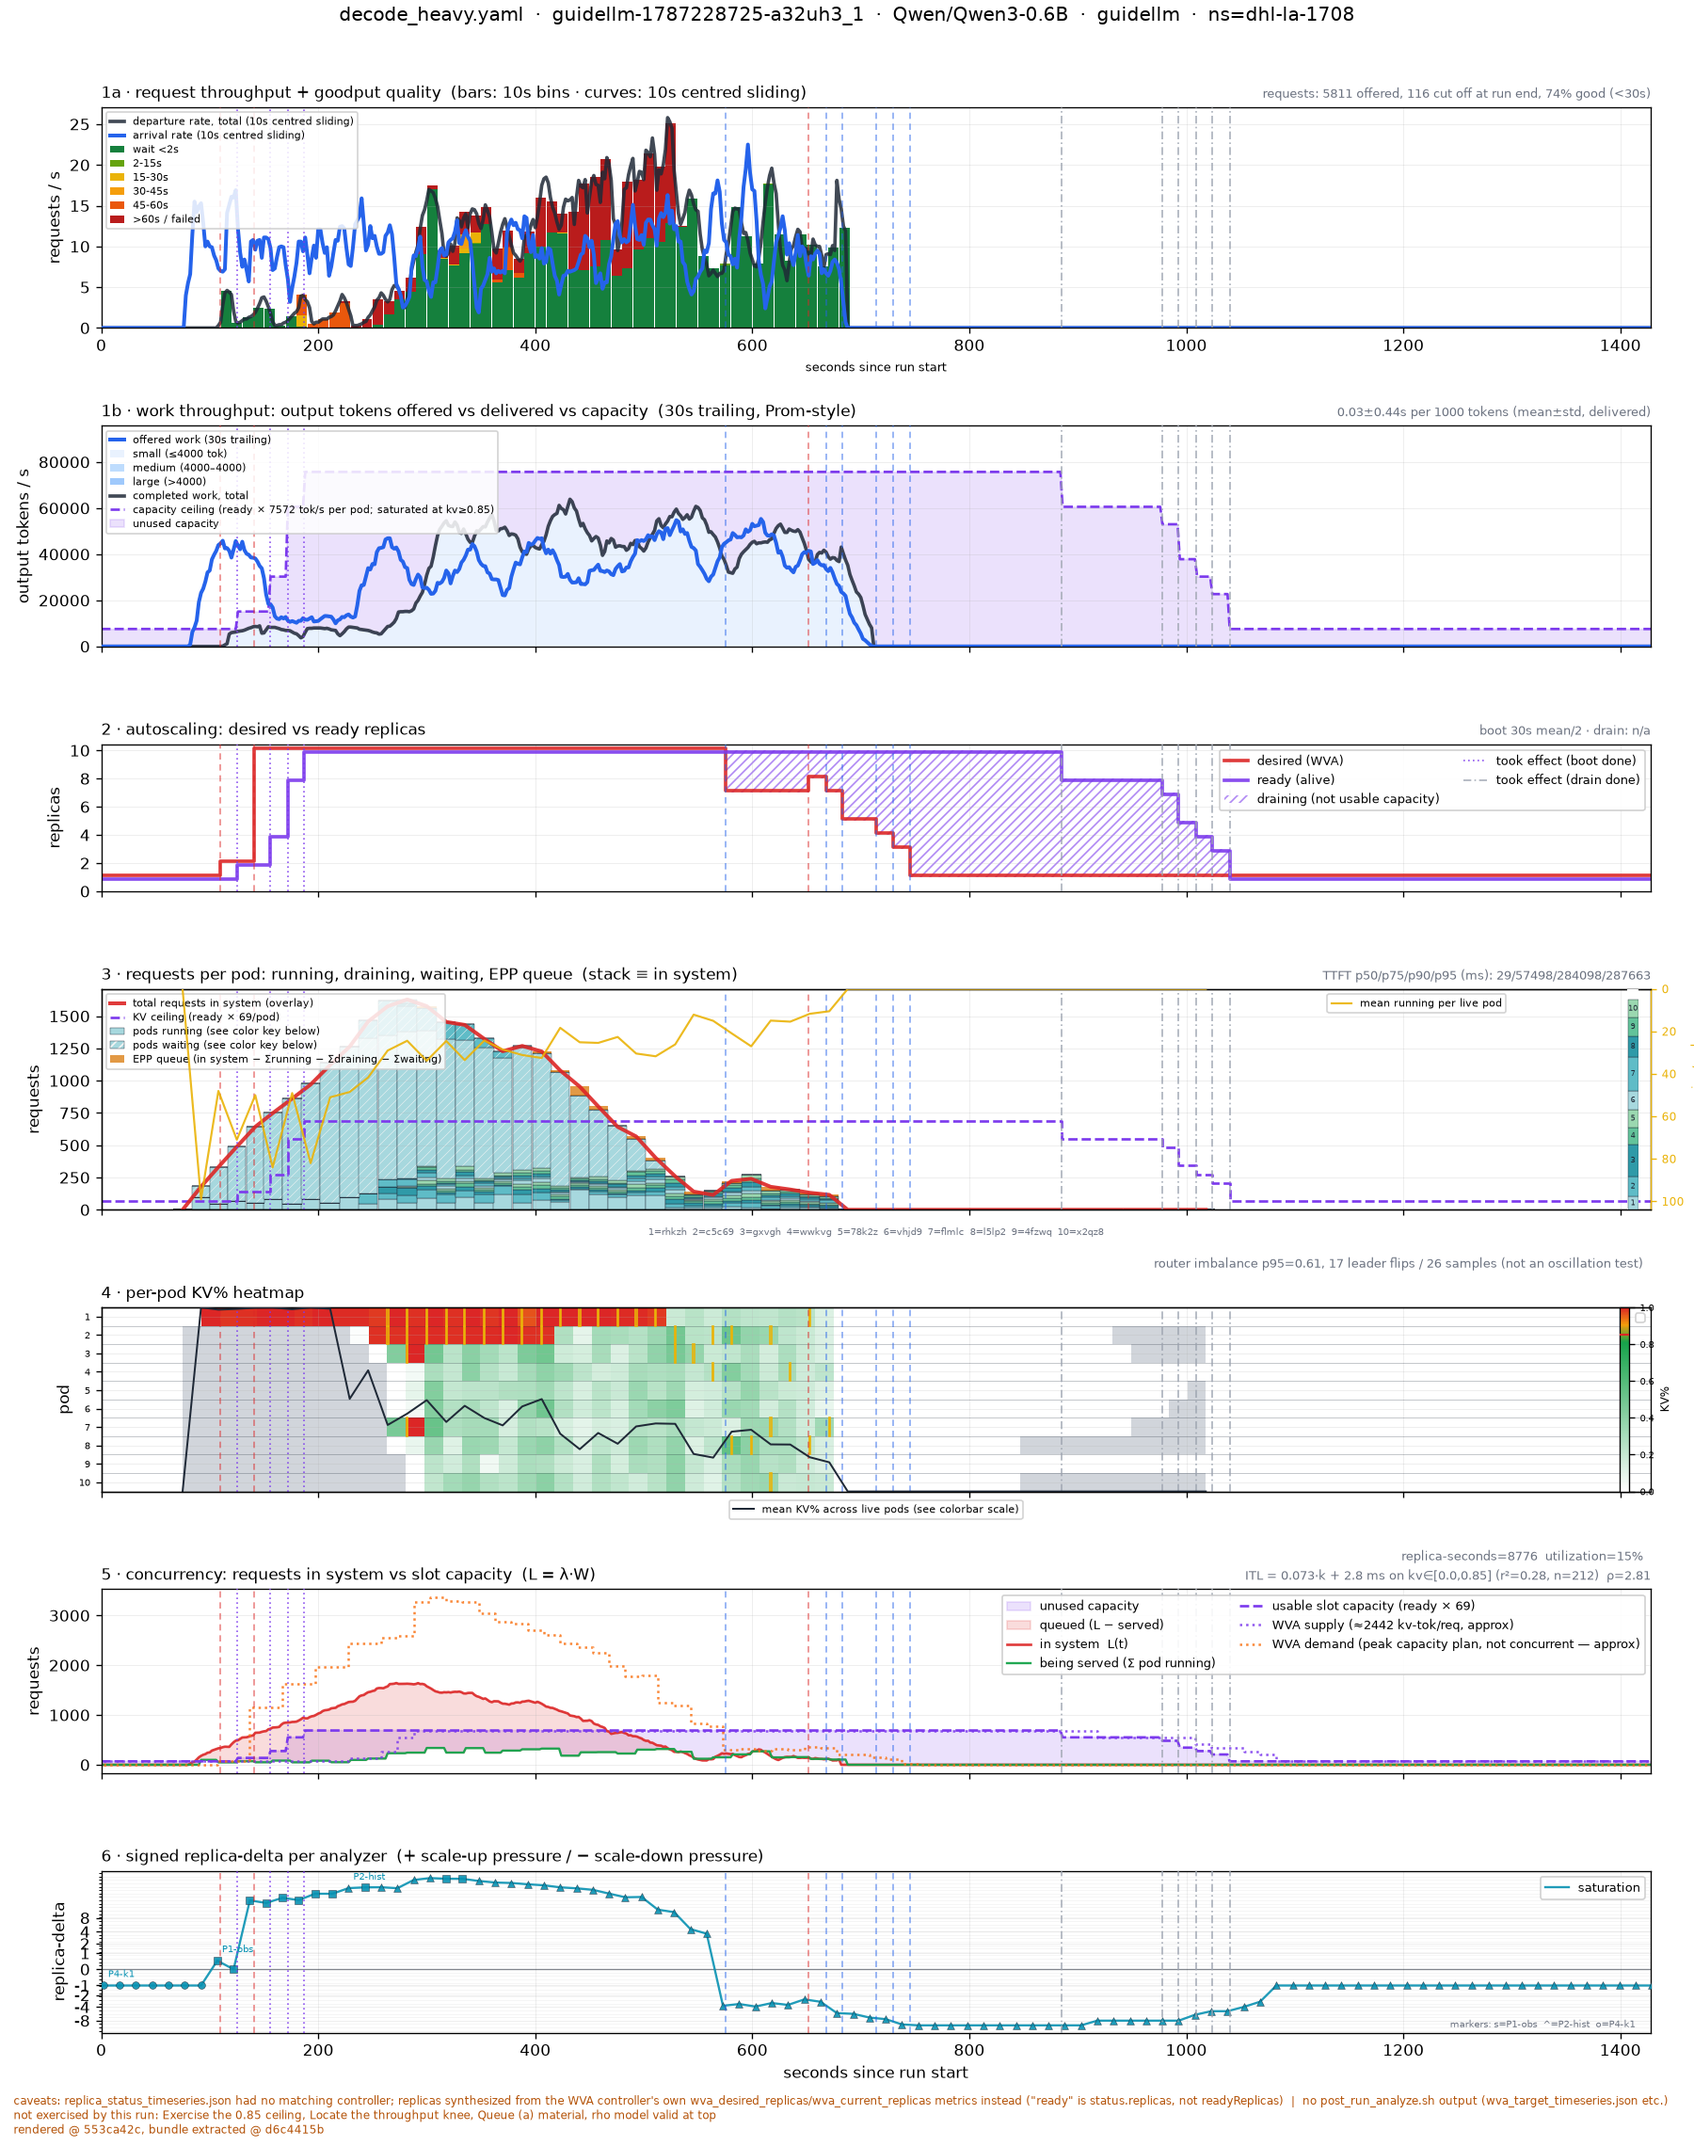
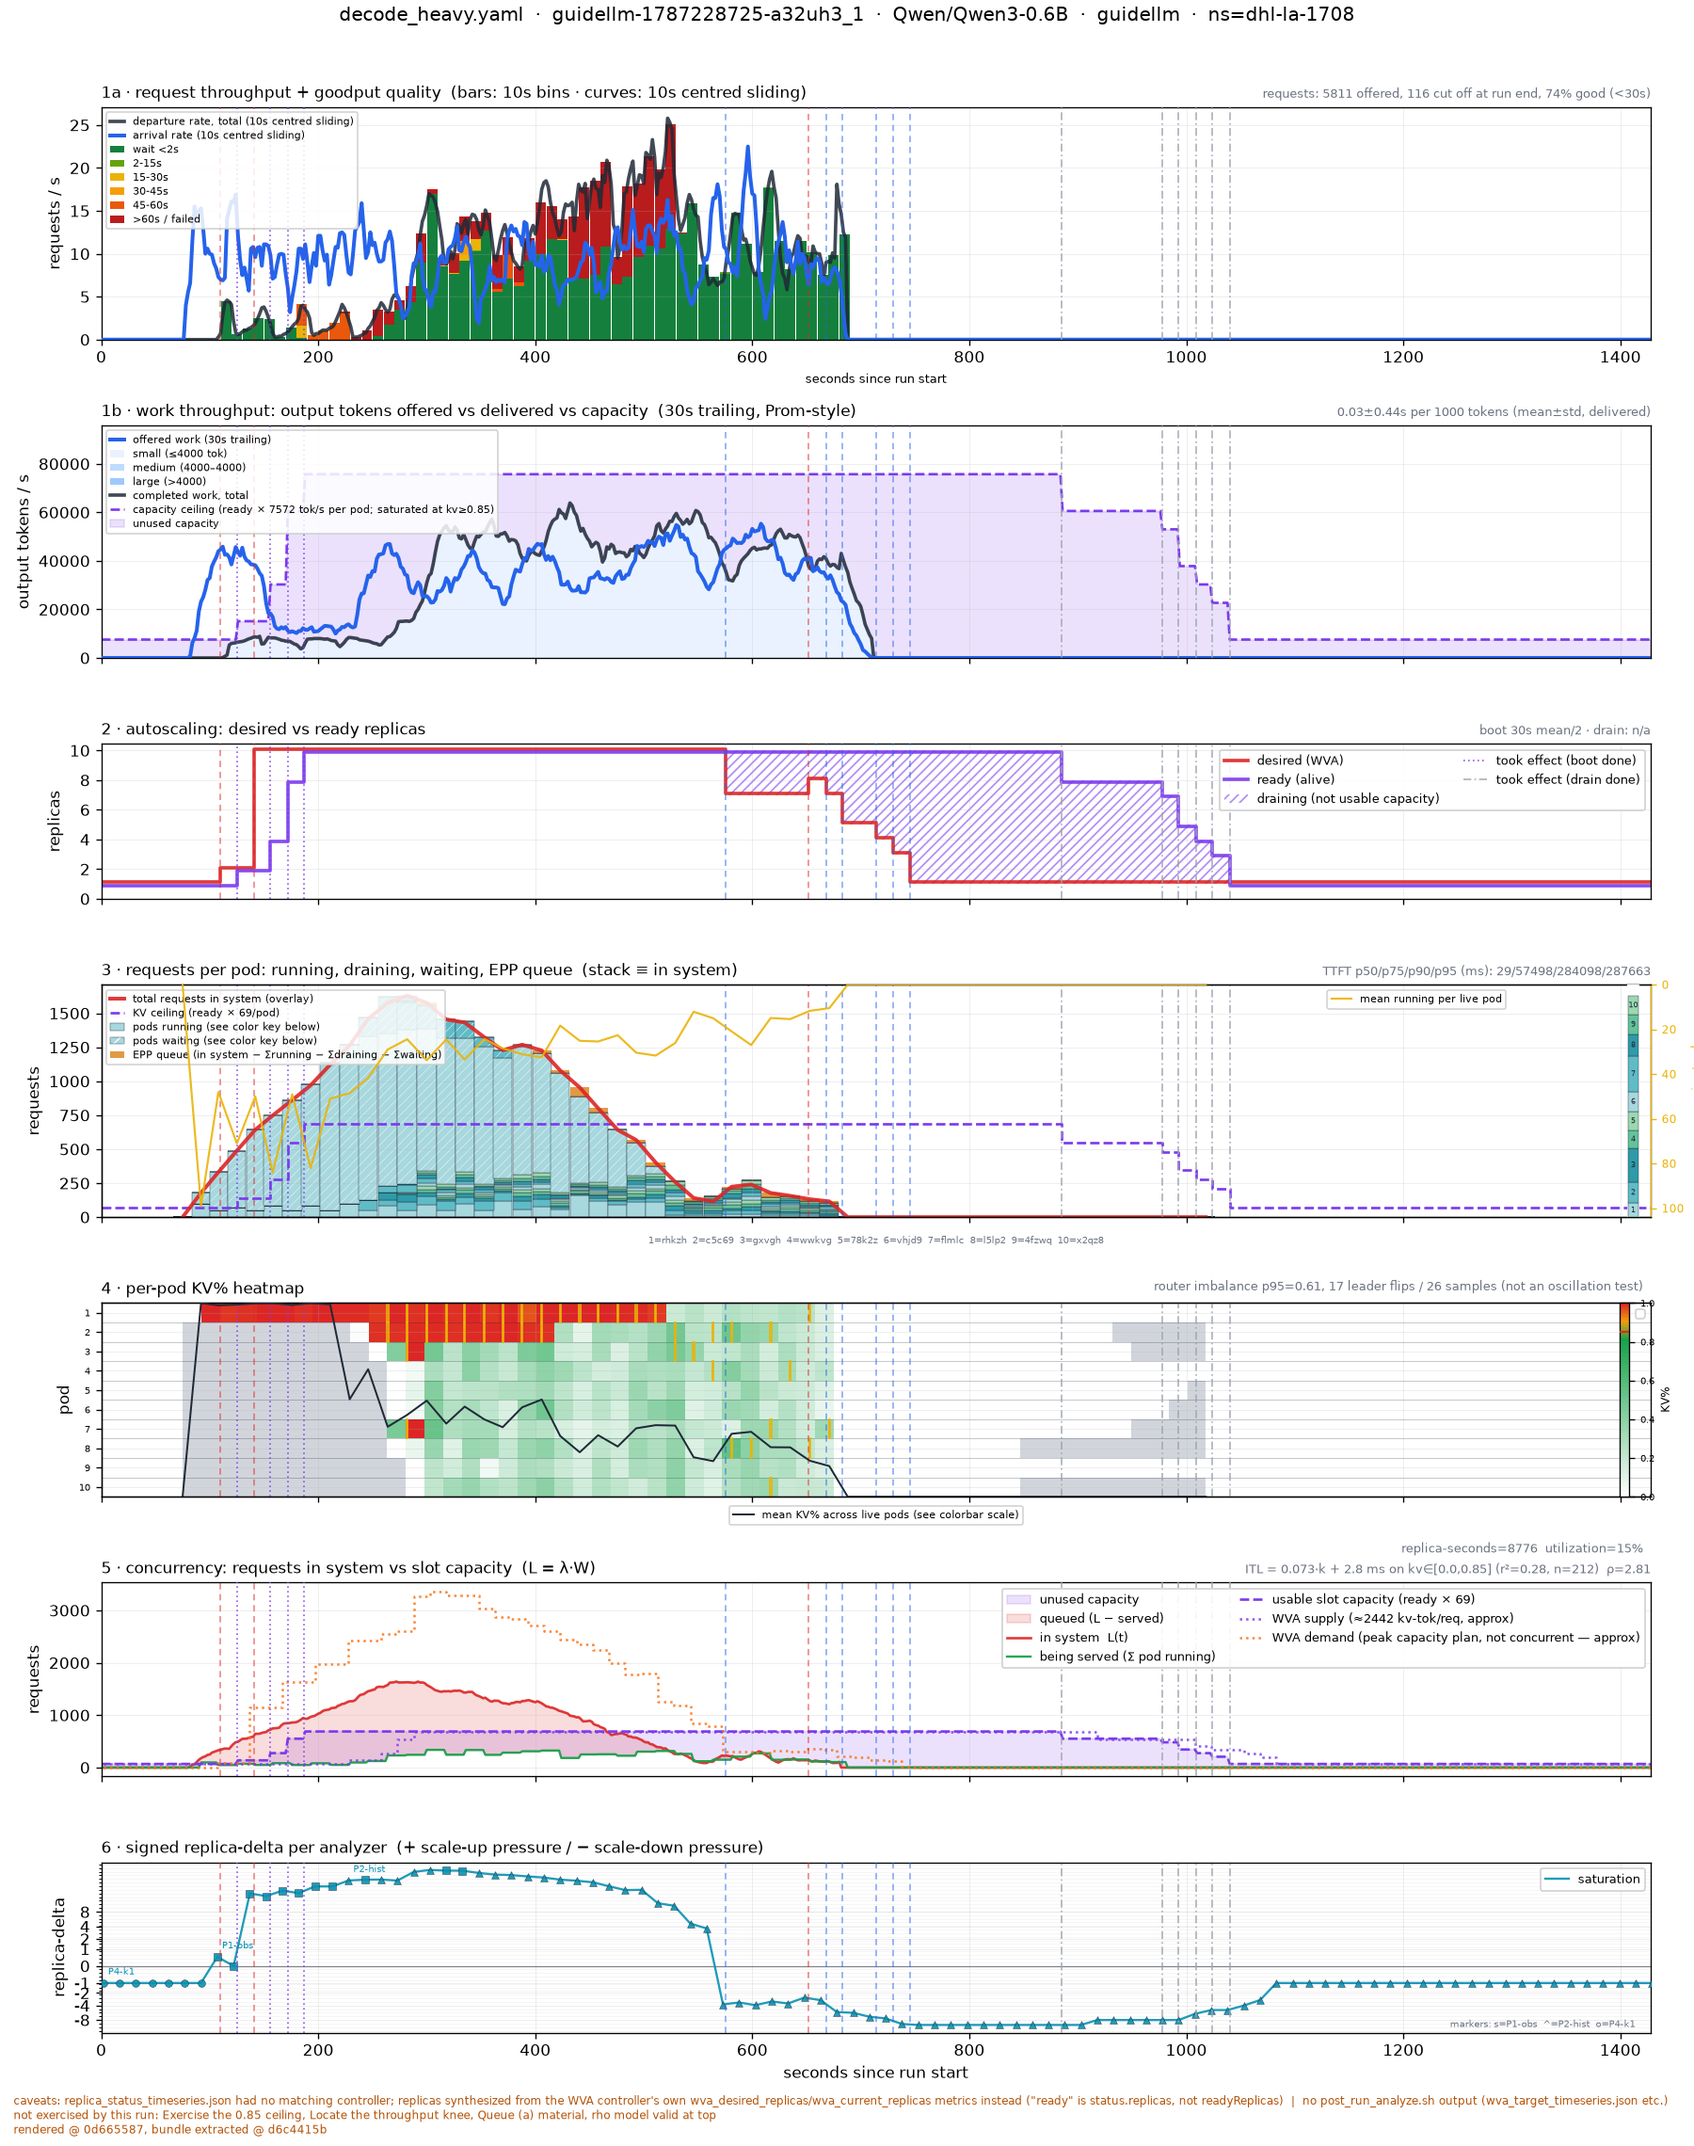
docs+fix(benchmark): record the demand-charge question in the tracking doc, tighten panel 4 header spacing
docs: added #6 to observability-gaps.md recording the WVA demand
investigation (peak I+O charge, two non-coincident 1-minute maxima,
queued-request pricing -- all deliberate per saturation_v2/analyzer.go's
own doc comments) plus Dean's own follow-up question: I+0.5*O might be a
better planning size than I+O, but this port has no ground-truth
token-by-token KV occupancy trace to judge that against -- recorded for
whoever owns the analyzer, not answered here.

fix: panel 4's router-imbalance corner text was nudged to y=1.20 on a
guess two commits ago to fix a collision that was never actually
confirmed -- wrong direction entirely (Dean: "still extra white space on
p4 right title"). Pulled back to 1.05, confirmed tight against the panel
title in a fresh render.

diff --git a/hack/benchmark/render_real_trace.py b/hack/benchmark/render_real_trace.py
@@ -1347,7 +1347,7 @@ def render(bundle, path, title=None, coverage=None):
     # even though the heatmap body itself is now dense.
     r = der.get('router') or {}
     p95 = r.get('disp_p95')
-    e.text(0.995, 1.20 if pods else 1.02,
+    e.text(0.995, 1.05 if pods else 1.02,
            f"router imbalance p95={'?' if p95 is None else round(p95, 2)}, "
            f"{r.get('leader_flips', '?')} leader flips / {r.get('n', '?')} "
            f"samples (not an oscillation test)",

diff --git a/docs/plans/benchmark/observability-gaps.md b/docs/plans/benchmark/observability-gaps.md
@@ -218,6 +218,14 @@ sketch, not an implementation:
    handed a value once at creation time, and/or whether the controller should
    warn when a ScaledObject's `modelID` trigger never matches any scraped
    metric.
+6. See §6 below — `waitingQueueDemand`'s per-request KV charge uses the
+   request's full `I + O` (prompt + complete generation) as its "last decode
+   step" planning size. Dean: quite possibly should be `I + 0.5*O` instead —
+   but there is no ground truth in this port's own data to say which is
+   right (no token-by-token KV occupancy trace exists, only each request's
+   final `in_tok`/`out_tok`). Whoever owns `saturation_v2/analyzer.go` is in
+   a better position to judge this than benchmark tooling reading its output
+   after the fact.
 
 ## 5. Run finding: stale ScaledObject `modelID` after a manual model change (dhl-la-1708, 2026-08-19)
 
@@ -281,3 +289,59 @@ manual log archaeology. It reuses `deploy/lib/scaledobject.sh`'s own discovery
 (`install_default_scaledobjects` in `plan` mode, `so_plan_rows`) rather than
 reimplementing model detection, and never mutates anything — same read-only
 boundary this doc's scope note describes above.
+
+## 6. Run finding: WVA's `demand` signal runs well above observed concurrency, by design (decode_heavy, dhl-la-1708, 2026-08-20)
+
+Adding a supply/demand overlay to panel 5 (`render_real_trace.py`, converting
+the analyzer-result records' `demand`/`supply` fields from KV-cache-token
+units into this panel's own request units via this run's own measured mean
+KV-tokens-per-running-request) turned up something worth flagging on the
+`decode_heavy` run: `demand` peaks at ≈3400 request-equivalents, while
+`in_system L(t)` (the per-request-derived concurrency reconstruction) peaks
+at only ≈1600 at roughly the same time — demand running more than 2x above
+observed concurrency.
+
+**Not a conversion bug** — checked directly: the divisor is stable across
+the run (2442 whole-run average vs 2501 computed in just the 30-60s window
+around the peak, a 2.4% difference), and `supply` independently validates
+against `usable slot capacity` (both represent ready-replica capacity,
+computed two different ways, and track each other closely on every run
+checked).
+
+**Traced to `internal/engines/analyzers/saturation_v2/analyzer.go` directly**,
+`waitingQueueDemand`'s own doc comment names three explicit, deliberate
+biases, all toward over-provisioning:
+
+1. Each request's KV footprint is charged at its *last* decode step — `I + O`
+   (full prompt + full generation), a peak/no-preemption planning size, not
+   its footprint at any single real instant. Confirmed numerically at the
+   `decode_heavy` peak (t≈221s): 1549 requests actually active, mean
+   `in_tok=1000`, mean `out_tok`-so-far `=2438` of a 4000-token target — real
+   footprint ≈3438/request, charged as if every one would reach the full
+   1000+4000=5000.
+2. This term and a second "resident" term are each their own 1-minute
+   maximum (`max_over_time`), summed even though the two maxima need not
+   have occurred at the same real instant.
+3. A queued (not yet running) request is priced into the same total ahead of
+   time.
+
+The doc comment's own stated reasoning: "under-provisioning decode capacity
+causes preemption and recompute thrash, which costs more than a spare
+replica" — i.e. deliberate, not an oversight.
+
+**Dean's follow-up question, recorded rather than answered here**: item 1's
+charge uses the request's full `I + O`. Quite possibly `I + 0.5*O` (roughly
+the request's *mean* footprint over its lifetime, rather than its peak)
+would be a better planning size — but this port has no ground truth to
+judge that against: no token-by-token KV occupancy trace exists for any
+captured run, only each request's final `in_tok`/`out_tok`. Whoever owns
+`saturation_v2/analyzer.go` is in a much better position to know what the
+right charge is (and why `I + O` was chosen over it) than benchmark tooling
+reading the analyzer's output after the fact — recorded here as a real
+question for them, not a recommendation to change it.
+
+**What this repo's benchmark tooling did**: relabelled the panel 5 legend
+entry from "WVA demand (requests, approx)" to "WVA demand (peak capacity
+plan, not concurrent — approx)" so the gap against `in_system`/`being served`
+reads as expected/by-design rather than as the panel's lines disagreeing
+with each other.
